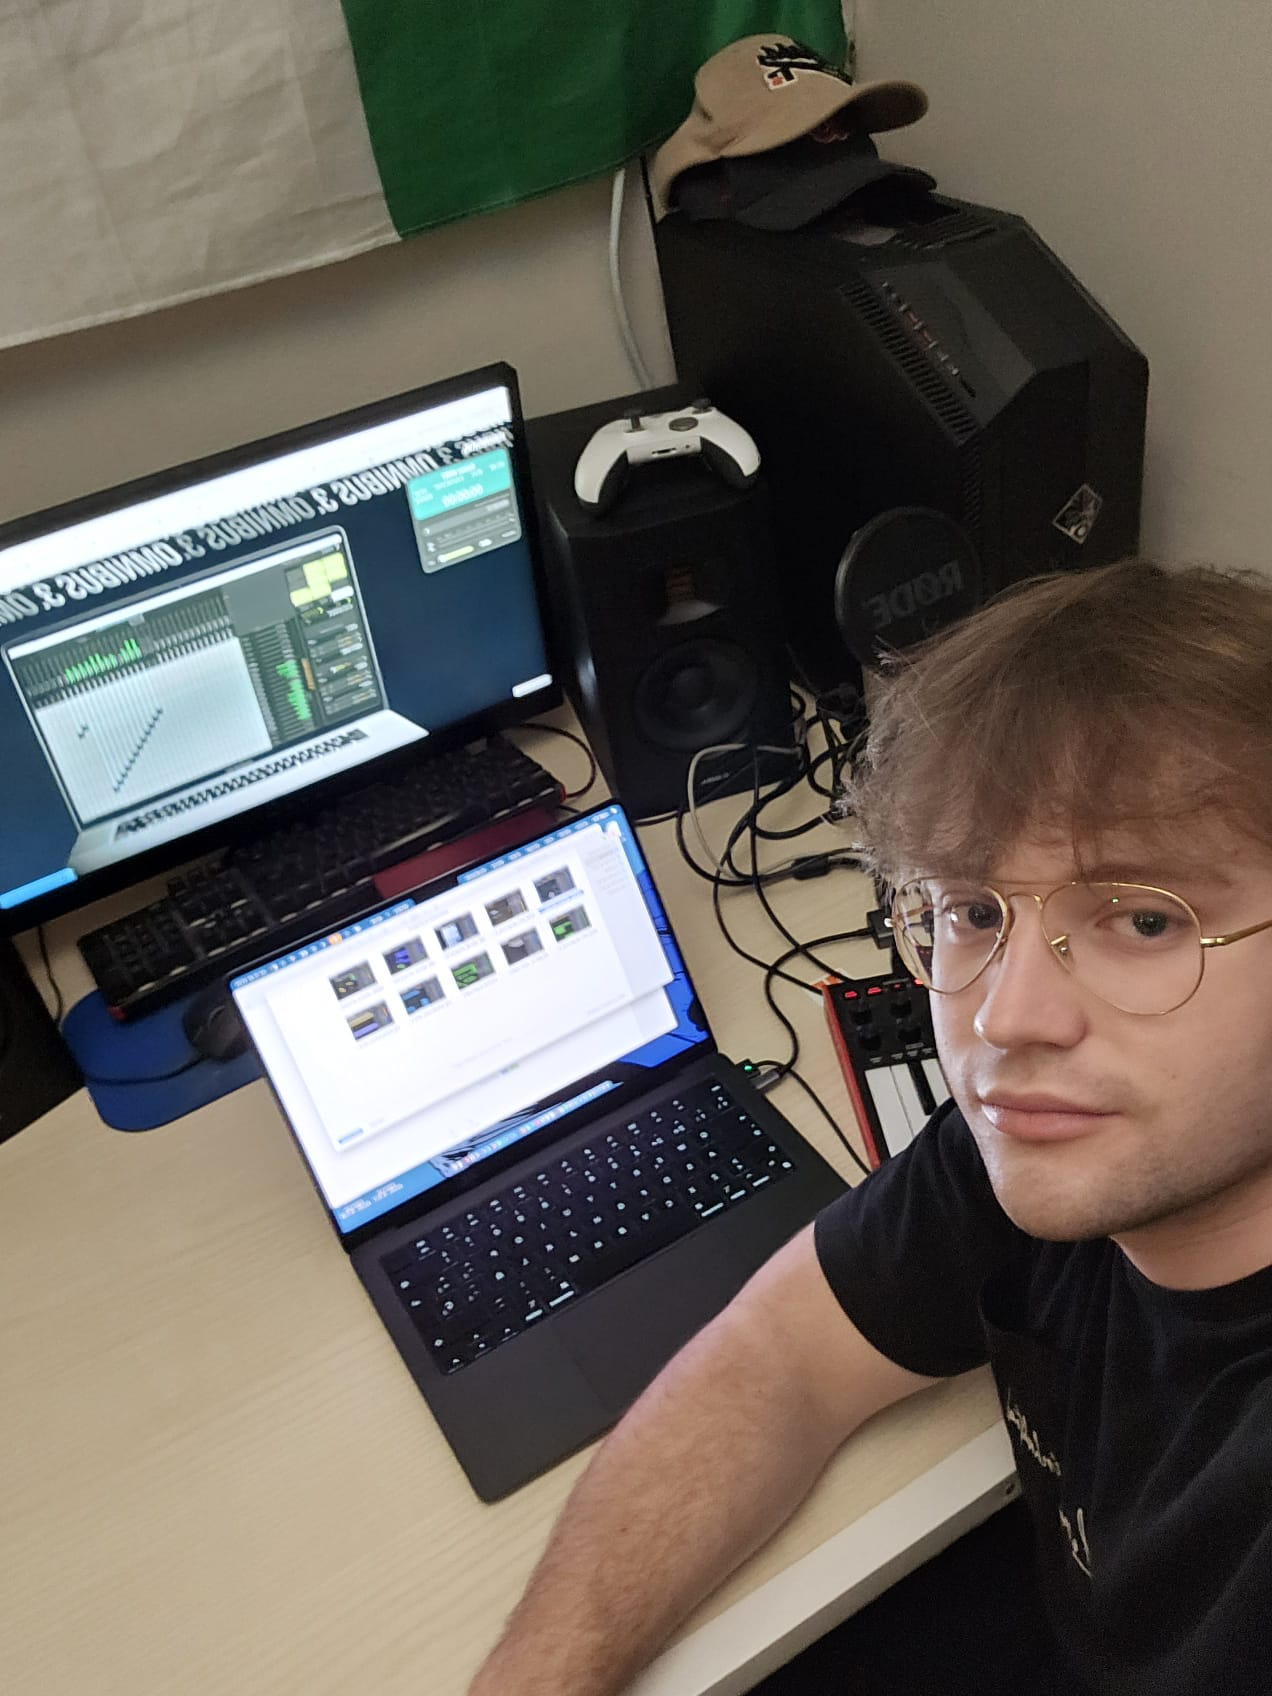
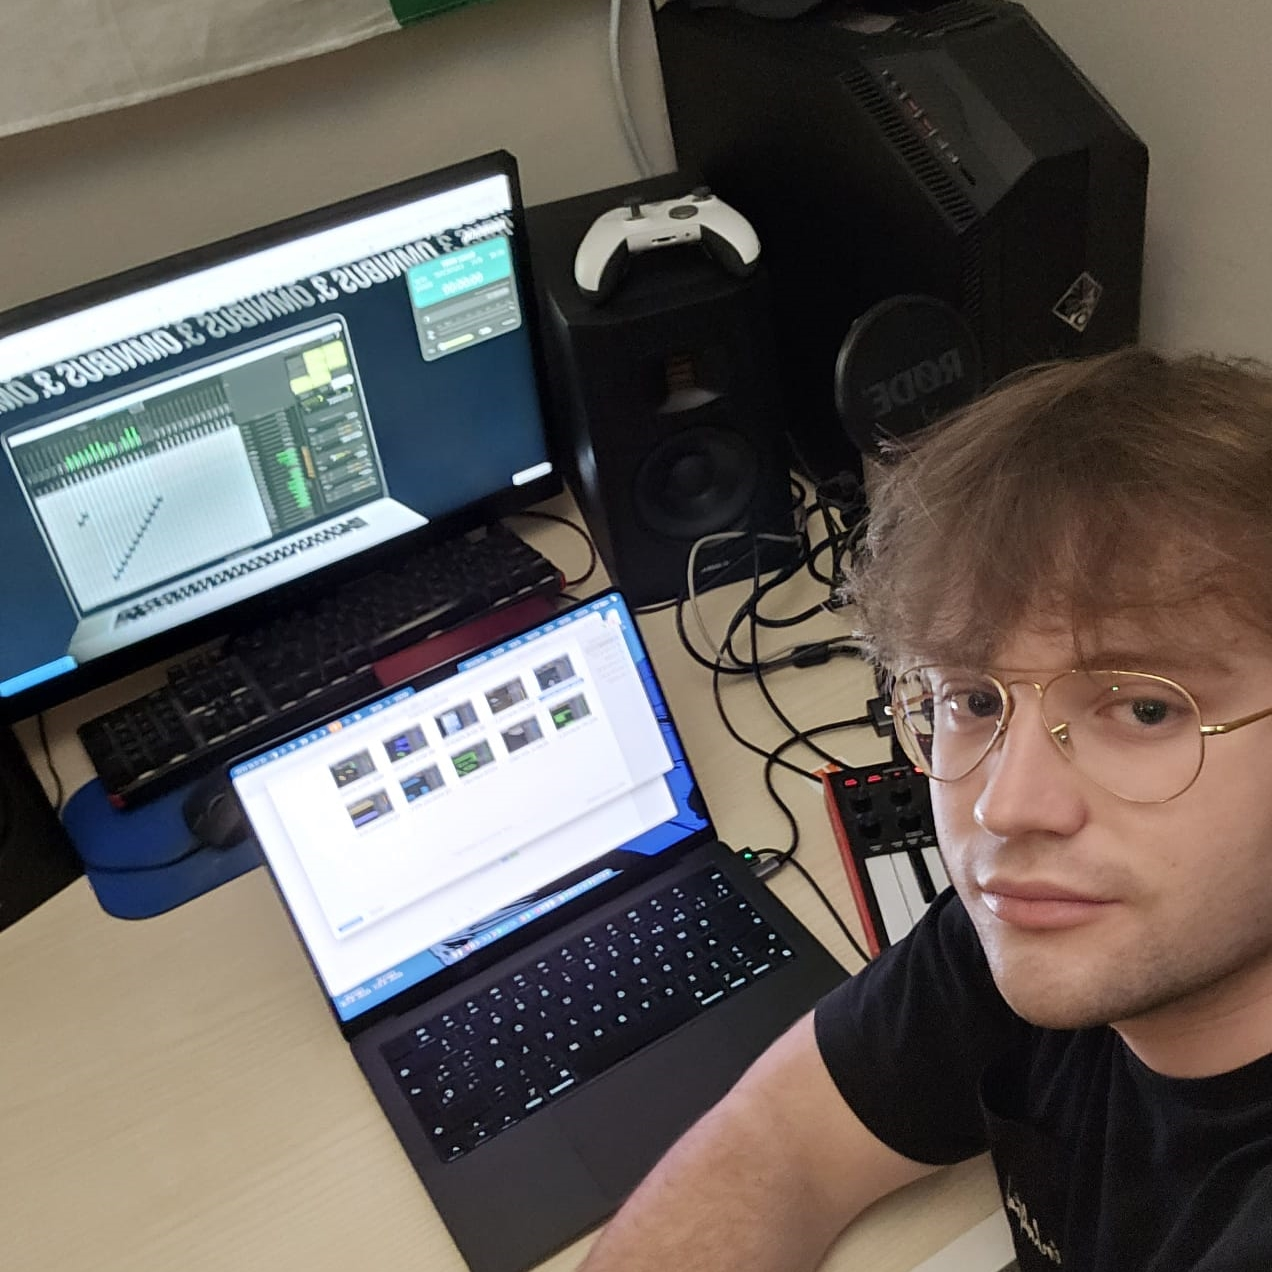
Attilio image fix

diff --git a/ost.html b/ost.html
@@ -37,7 +37,7 @@ title: Original Soundtrack
     <div class="ost-main">
       <img src="assets/images/attilio.jpeg" style="
         width: 400px;
-        height: 400px;
+        max-width: 90%;
         object-fit: cover;
         border-radius: 50%;
         border: 3px solid #d4af37;
